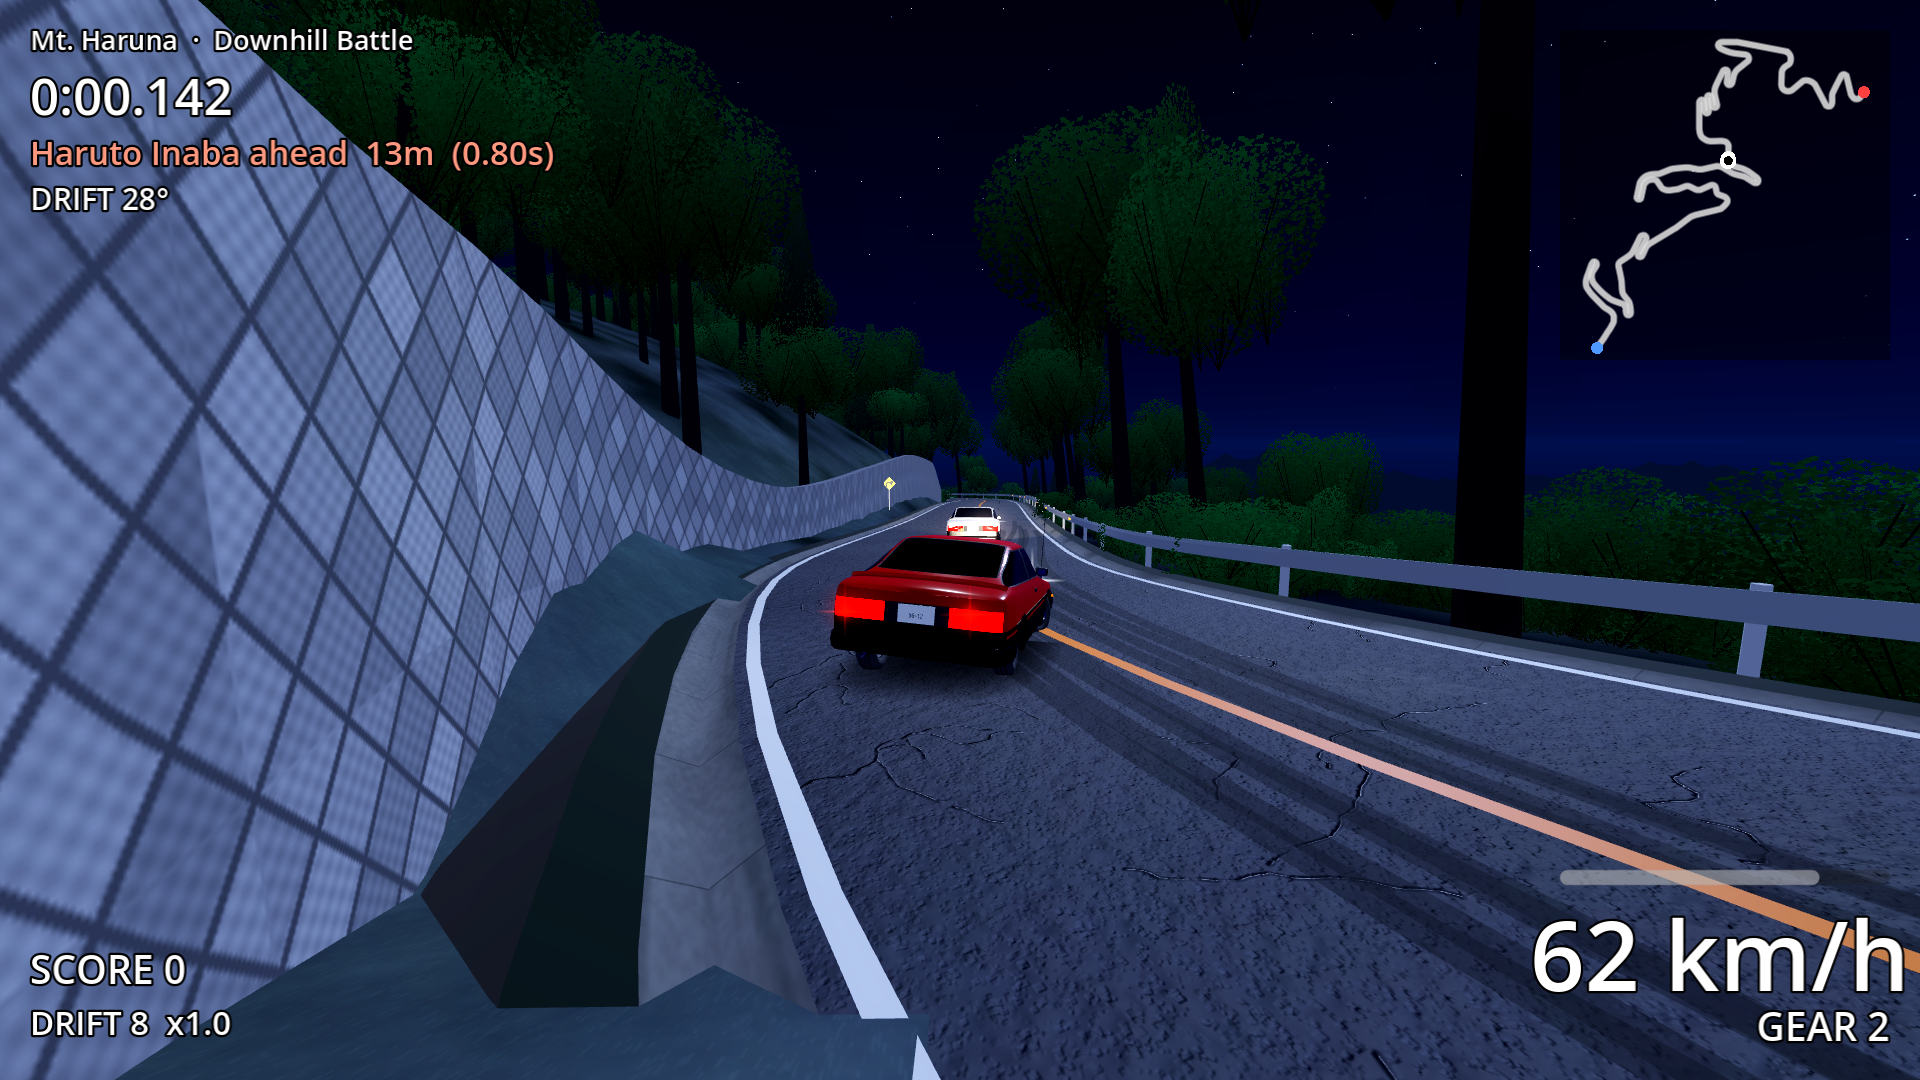
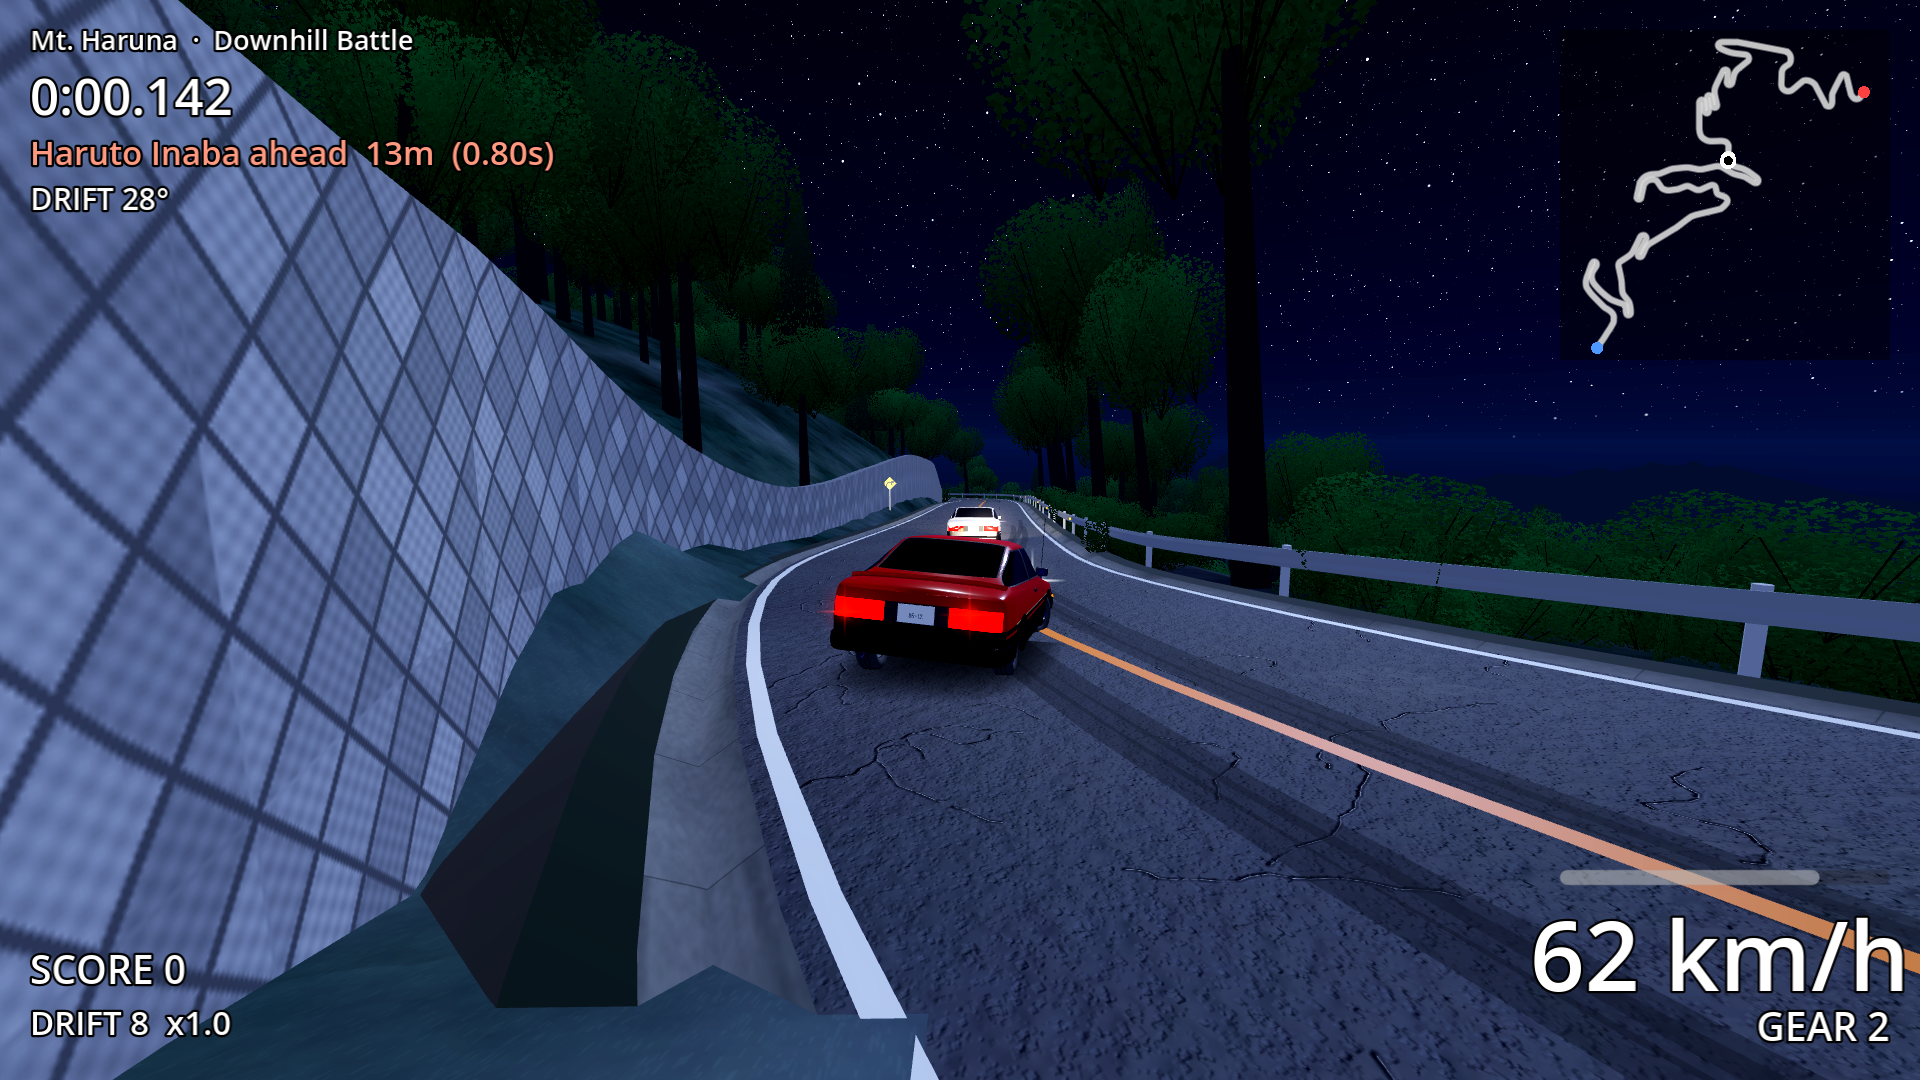
Sticky gutter hook, rivals give room on the inside and race close (strong on straights, catchable in corners), terrain carved out of the road corridor and matched to its mesh, forest canopy on the hillsides, real tunnel section with smooth walkways, tiles and lamp line, proper curve mirrors, dense s
Claude-Session: https://claude.ai/code/session_01LLcQYzyEQizYewCt6b7etJ

diff --git a/tools/make_textures.py b/tools/make_textures.py
@@ -235,6 +235,32 @@ def cedar():
     print("wrote cedar.png")
 
 
+def canopy():
+    """Forest canopy seen from a distance: packed tree crowns, lit from the
+    upper left, dark gaps between them. Greyscale, tileable."""
+    n = 512
+    img = np.full((n, n), 0.18)
+    yy, xx = np.mgrid[0:n, 0:n]
+    for _ in range(900):
+        cx, cy = rng.integers(0, n, 2)
+        r = rng.integers(9, 22)
+        for ox in (-n, 0, n):
+            for oy in (-n, 0, n):
+                x0, y0 = cx + ox, cy + oy
+                if x0 + r < 0 or x0 - r > n or y0 + r < 0 or y0 - r > n:
+                    continue
+                sl = (slice(max(0, y0 - r), min(n, y0 + r)), slice(max(0, x0 - r), min(n, x0 + r)))
+                dx = (xx[sl] - x0) / r
+                dy = (yy[sl] - y0) / r
+                d = dx * dx + dy * dy
+                inside = d < 1.0
+                shade = 0.55 + 0.45 * np.clip(-(dx + dy) * 0.7 + 0.3, -1, 1) - d * 0.25
+                top = np.where(inside, shade, -1)
+                img[sl] = np.maximum(img[sl], top)
+    img = np.clip(img, 0, 1) * (0.8 + 0.2 * tile_noise(n, 30, 2, 51))
+    save("canopy.png", img * 255, "L")
+
+
 if __name__ == "__main__":
     asphalt()
     ground()
@@ -243,3 +269,4 @@ if __name__ == "__main__":
     roof()
     leaves()
     cedar()
+    canopy()
